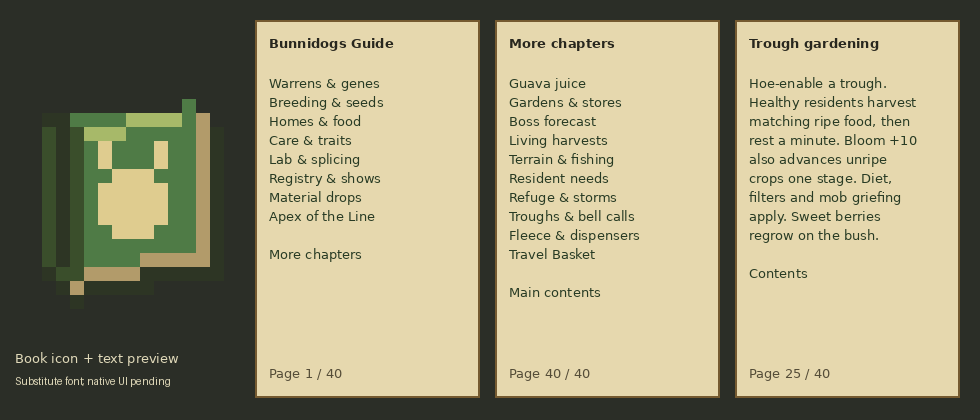
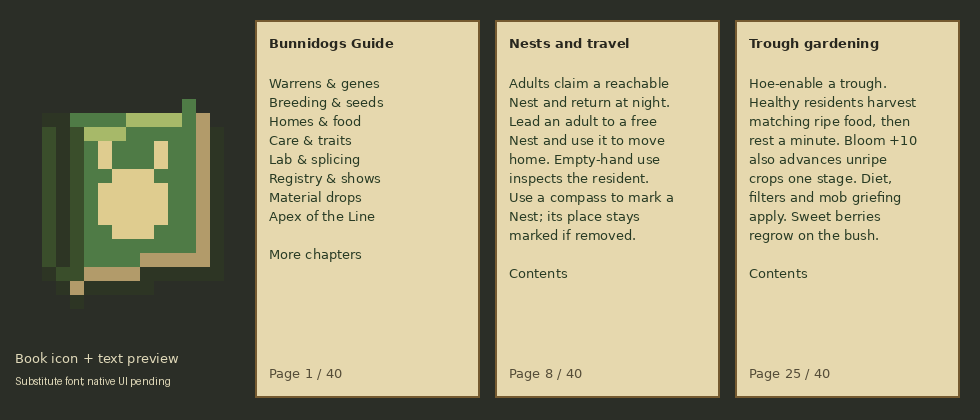
Mark Nest locations with compasses and inspect resident tickets

Changed region(s): [[0.5204, 0.1857, 0.7041, 0.7119], [0.5204, 0.0929, 0.6429, 0.1238], [0.551, 0.8667, 0.6122, 0.8976]]

diff --git a/tools/gametest/java/com/bunnidogs/mod/entity/NestMarkerGameTest.java b/tools/gametest/java/com/bunnidogs/mod/entity/NestMarkerGameTest.java
@@ -1,0 +1,99 @@
+package com.bunnidogs.mod.entity;
+
+import java.util.Optional;
+import com.bunnidogs.mod.genetics.Genome;
+import com.bunnidogs.mod.registry.ModBlocks;
+import com.bunnidogs.mod.registry.ModEntities;
+import com.bunnidogs.mod.registry.ModPoi;
+import net.minecraft.core.BlockPos;
+import net.minecraft.core.Direction;
+import net.minecraft.core.GlobalPos;
+import net.minecraft.core.component.DataComponents;
+import net.minecraft.gametest.framework.GameTestHelper;
+import net.minecraft.network.chat.Component;
+import net.minecraft.server.level.ServerPlayer;
+import net.minecraft.util.ProblemReporter;
+import net.minecraft.world.InteractionHand;
+import net.minecraft.world.entity.EquipmentSlot;
+import net.minecraft.world.entity.ai.village.poi.PoiManager;
+import net.minecraft.world.entity.item.ItemEntity;
+import net.minecraft.world.item.ItemStack;
+import net.minecraft.world.item.Items;
+import net.minecraft.world.item.component.LodestoneTracker;
+import net.minecraft.world.level.GameType;
+import net.minecraft.world.level.block.Blocks;
+import net.minecraft.world.level.storage.TagValueInput;
+import net.minecraft.world.level.storage.TagValueOutput;
+import net.minecraft.world.phys.AABB;
+import net.minecraft.world.phys.BlockHitResult;
+import net.minecraft.world.phys.Vec3;
+
+public final class NestMarkerGameTest {
+    private NestMarkerGameTest() {}
+    private static void use(ServerPlayer player, BlockPos pos, InteractionHand hand) {
+        player.gameMode.useItemOn(player,player.level(),player.getItemInHand(hand),hand,
+                new BlockHitResult(Vec3.atCenterOf(pos),Direction.UP,pos,false));
+    }
+    public static void run(GameTestHelper h) {
+        var level = h.getLevel();
+        for (int x = 0; x < 8; x++) for (int z = 0; z < 8; z++) h.setBlock(x,0,z,Blocks.STONE);
+        h.setBlock(1,1,1,ModBlocks.NEST.get()); h.setBlock(6,1,1,ModBlocks.NEST.get());
+        var first = h.absolutePos(new BlockPos(1,1,1)); var second = h.absolutePos(new BlockPos(6,1,1));
+        var player = h.makeMockServerPlayerInLevel();
+        GameType.SURVIVAL.updatePlayerAbilities(player.getAbilities());
+        var dog = h.spawnWithNoFreeWill(ModEntities.BUNNIDOG.get(),3.5F,1,3.5F);
+        dog.setGenome(Genome.DEFAULT); dog.setAge(0);
+        h.runAfterDelay(2,() -> {
+            var pois = level.getPoiManager();
+            use(player,first,InteractionHand.MAIN_HAND);
+            h.assertTrue(pois.getCountInRange(holder -> holder.is(ModPoi.NEST.getKey()),first,0,PoiManager.Occupancy.HAS_SPACE) == 1,
+                    "Empty Nest inspection must leave its native ticket free");
+            h.assertTrue(dog.moveHomeTo(level,first) == NestHome.MoveResult.MOVED,"The inspected Nest must still accept its first resident");
+            use(player,first,InteractionHand.MAIN_HAND);
+            h.assertTrue(first.equals(dog.homeNest()) && pois.getCountInRange(holder -> holder.is(ModPoi.NEST.getKey()),first,0,PoiManager.Occupancy.IS_OCCUPIED) == 1,
+                    "Occupied inspection must preserve its resident and exact reservation");
+            var compasses = new ItemStack(Items.COMPASS,3);
+            compasses.set(DataComponents.CUSTOM_NAME,Component.literal("Warren route"));
+            player.setItemInHand(InteractionHand.MAIN_HAND,compasses);
+            use(player,first,InteractionHand.MAIN_HAND);
+            var expected = new LodestoneTracker(Optional.of(GlobalPos.of(level.dimension(),first)),false);
+            int markedSlot = -1;
+            for (int slot = 0; slot < player.getInventory().getContainerSize(); slot++)
+                if (expected.equals(player.getInventory().getItem(slot).get(DataComponents.LODESTONE_TRACKER))) markedSlot = slot;
+            h.assertTrue(markedSlot >= 0 && compasses.getCount() == 2 && !compasses.has(DataComponents.LODESTONE_TRACKER)
+                    && player.getInventory().getItem(markedSlot).getCount() == 1,"A survival stack must spend exactly one compass to make one marker");
+            var marked = player.getInventory().removeItem(markedSlot,1);
+            player.setItemInHand(InteractionHand.OFF_HAND,marked);
+            use(player,second,InteractionHand.OFF_HAND);
+            var rebound = new LodestoneTracker(Optional.of(GlobalPos.of(level.dimension(),second)),false);
+            h.assertTrue(rebound.equals(marked.get(DataComponents.LODESTONE_TRACKER)) && marked.getHoverName().getString().equals("Warren route")
+                    && compasses.getCount() == 2,"Rebinding the actual off-hand compass must preserve its name and other hand");
+            var output = TagValueOutput.createWithContext(ProblemReporter.DISCARDING,level.registryAccess());
+            output.store("Compass",ItemStack.CODEC,marked);
+            var restored = TagValueInput.create(ProblemReporter.DISCARDING,level.registryAccess(),output.buildResult()).read("Compass",ItemStack.CODEC).orElseThrow();
+            level.setBlock(second,Blocks.AIR.defaultBlockState(),3);
+            restored.getItem().inventoryTick(restored,level,player,EquipmentSlot.OFFHAND);
+            h.assertTrue(rebound.equals(restored.get(DataComponents.LODESTONE_TRACKER)),"Native saved markers must keep their coordinates when the Nest is removed");
+            var creative = h.makeMockServerPlayerInLevel(); GameType.CREATIVE.updatePlayerAbilities(creative.getAbilities());
+            var single = new ItemStack(Items.COMPASS); creative.setItemInHand(InteractionHand.MAIN_HAND,single);
+            use(creative,first,InteractionHand.MAIN_HAND);
+            h.assertTrue(expected.equals(creative.getMainHandItem().get(DataComponents.LODESTONE_TRACKER))
+                    && creative.getInventory().countItem(Items.COMPASS) == 1,"A single creative compass must bind on the actual held stack without a spare");
+            var denied = h.makeMockServerPlayerInLevel(); GameType.ADVENTURE.updatePlayerAbilities(denied.getAbilities());
+            var unchanged = new ItemStack(Items.COMPASS); denied.setItemInHand(InteractionHand.MAIN_HAND,unchanged);
+            use(denied,first,InteractionHand.MAIN_HAND);
+            h.assertTrue(!unchanged.has(DataComponents.LODESTONE_TRACKER),"Denied build permission must preserve an unbound compass");
+            var full = h.makeMockServerPlayerInLevel(); GameType.SURVIVAL.updatePlayerAbilities(full.getAbilities());
+            full.setPos(Vec3.atBottomCenterOf(h.absolutePos(new BlockPos(3,1,4))));
+            for (int slot = 0; slot < 36; slot++) full.getInventory().setItem(slot,new ItemStack(Items.STONE,64));
+            var extra = new ItemStack(Items.COMPASS,2); full.setItemInHand(InteractionHand.MAIN_HAND,extra);
+            use(full,first,InteractionHand.MAIN_HAND);
+            var drops = level.getEntitiesOfClass(ItemEntity.class,new AABB(full.blockPosition()).inflate(2),
+                    item -> expected.equals(item.getItem().get(DataComponents.LODESTONE_TRACKER)));
+            h.assertTrue(extra.getCount() == 1 && drops.stream().mapToInt(item -> item.getItem().getCount()).sum() == 1,
+                    "A full survival inventory must drop exactly the one marked compass");
+            h.assertTrue(first.equals(dog.homeNest()),"Marking, re-marking and overflow must not move the resident");
+            h.succeed();
+        });
+    }
+}

diff --git a/src/main/java/com/bunnidogs/mod/block/NestBlock.java b/src/main/java/com/bunnidogs/mod/block/NestBlock.java
@@ -1,9 +1,13 @@
 package com.bunnidogs.mod.block;
 
 import java.util.Comparator;
+import java.util.Optional;
 import com.bunnidogs.mod.entity.Bunnidog;
 import com.bunnidogs.mod.entity.NestHome;
+import com.bunnidogs.mod.registry.ModPoi;
 import net.minecraft.core.BlockPos;
+import net.minecraft.core.GlobalPos;
+import net.minecraft.core.component.DataComponents;
 import net.minecraft.network.chat.Component;
 import net.minecraft.server.level.ServerLevel;
 import net.minecraft.sounds.SoundEvents;
@@ -11,15 +15,17 @@ import net.minecraft.sounds.SoundSource;
 import net.minecraft.world.InteractionHand;
 import net.minecraft.world.InteractionResult;
 import net.minecraft.world.entity.player.Player;
+import net.minecraft.world.entity.ai.village.poi.PoiManager;
 import net.minecraft.world.item.ItemStack;
 import net.minecraft.world.item.Items;
+import net.minecraft.world.item.component.LodestoneTracker;
 import net.minecraft.world.level.Level;
 import net.minecraft.world.level.block.Block;
 import net.minecraft.world.level.block.state.BlockState;
 import net.minecraft.world.phys.AABB;
 import net.minecraft.world.phys.BlockHitResult;
 
-/** Keeps the existing Nest block/save identity; adds explicit rehoming of a dog led by the interacting player. */
+/** Native home tickets, led reassignment and persistent compass place markers. */
 public final class NestBlock extends Block {
     private static final double LEAD_RANGE = 8.0;
     public NestBlock(Properties properties) { super(properties); }
@@ -27,6 +33,7 @@ public final class NestBlock extends Block {
     @Override
     protected InteractionResult useItemOn(ItemStack stack, BlockState state, Level level, BlockPos pos,
             Player player, InteractionHand hand, BlockHitResult hit) {
+        if (stack.is(Items.COMPASS)) return mark(level,pos,player,hand,hit);
         return stack.is(Items.LEAD) ? this.rehome(level, pos, player) : super.useItemOn(stack, state, level, pos, player, hand, hit);
     }
     @Override
@@ -34,16 +41,46 @@ public final class NestBlock extends Block {
         return player.getMainHandItem().isEmpty() && player.getOffhandItem().isEmpty()
                 ? this.rehome(level, pos, player) : InteractionResult.PASS;
     }
+    private InteractionResult mark(Level level, BlockPos pos, Player player, InteractionHand hand, BlockHitResult hit) {
+        var actual = player.getItemInHand(hand);
+        if (!player.mayBuild() || !player.mayUseItemAt(pos,hit.getDirection(),actual)) return InteractionResult.PASS;
+        if (level instanceof ServerLevel) {
+            var tracker = new LodestoneTracker(Optional.of(GlobalPos.of(level.dimension(),pos)),false);
+            if (actual.getCount() == 1) actual.set(DataComponents.LODESTONE_TRACKER,tracker);
+            else {
+                var marked = actual.copyWithCount(1);
+                marked.set(DataComponents.LODESTONE_TRACKER,tracker);
+                actual.consume(1,player);
+                if (!player.getInventory().add(marked)) player.drop(marked,false);
+            }
+            level.playSound(null,pos,SoundEvents.LODESTONE_COMPASS_LOCK,SoundSource.PLAYERS,.6F,1);
+            player.sendOverlayMessage(Component.translatable("message.bunnidogs.nest.marked",pos.getX(),pos.getY(),pos.getZ()));
+        }
+        return InteractionResult.SUCCESS;
+    }
+    private InteractionResult inspect(Level level, BlockPos pos, Player player) {
+        if (level instanceof ServerLevel server) {
+            boolean claimed = server.getPoiManager().getCountInRange(holder -> holder.is(ModPoi.NEST.getKey()),pos,0,PoiManager.Occupancy.IS_OCCUPIED) > 0;
+            var resident = claimed ? level.getEntitiesOfClass(Bunnidog.class,new AABB(pos).inflate(24),
+                    dog -> dog.isAlive() && dog.acceptsCare() && pos.equals(dog.homeNest())).stream()
+                    .min(Comparator.comparing(Bunnidog::getUUID)) : Optional.<Bunnidog>empty();
+            player.sendOverlayMessage(!claimed ? Component.translatable("message.bunnidogs.nest.free")
+                    : resident.isEmpty() ? Component.translatable("message.bunnidogs.nest.away")
+                    : Component.translatable("message.bunnidogs.nest.resident",resident.get().getDisplayName(),
+                            resident.get().earTag().orElse("—")));
+        }
+        return InteractionResult.SUCCESS;
+    }
     private InteractionResult rehome(Level level, BlockPos pos, Player player) {
-        if (!player.mayBuild()) return InteractionResult.PASS;
         var dogs = level.getEntitiesOfClass(Bunnidog.class, new AABB(pos).inflate(LEAD_RANGE),
                 dog -> dog.isAlive() && dog.isLeashed() && dog.getLeashHolder() == player && !dog.isPassenger()
                         && dog.distanceToSqr(pos.getX() + .5, pos.getY() + 1, pos.getZ() + .5) <= LEAD_RANGE * LEAD_RANGE);
+        if (dogs.isEmpty()) return inspect(level,pos,player);
+        if (!player.mayBuild()) return InteractionResult.PASS;
         // One click affects exactly one dog, with a stable nearest-first order if several leads are held.
         var candidate = dogs.stream().filter(dog -> !dog.isBaby()).min(Comparator.comparingDouble((Bunnidog dog) ->
                 dog.distanceToSqr(pos.getX() + .5, pos.getY() + 1, pos.getZ() + .5)).thenComparing(Bunnidog::getUUID));
         if (candidate.isEmpty()) {
-            if (dogs.isEmpty()) return InteractionResult.PASS;
             if (!level.isClientSide()) player.sendOverlayMessage(Component.translatable("message.bunnidogs.nest.adult_required"));
             return InteractionResult.SUCCESS;
         }

diff --git a/art/gen_guide.py b/art/gen_guide.py
@@ -11,7 +11,7 @@ PAGES = {
     5: ('Hatch the litter', 'Plant the seed on farmland. Let it ripen, then break the ripe crop to hatch pups. Bone meal speeds growth; Starlit Dust ripens it. Fortune improves quality. Leave room for the litter.'),
     6: ('Guava quality', 'Better guavas improve inherited stat gains. Feed both parents: their qualities are averaged. Golden: 1, Diamond: 2, Netherite: 4, Star: 7, Beacon: 12, Dragon Egg: 20.'),
     7: ('Keep a pedigree', 'Use a Pedigree Book on animals to record them. Ear Tags give permanent codes. Calipers also read a seed or sample held in the other hand. Compare parents before choosing a mate.'),
-    8: ('Nests and travel', 'An adult claims one free reachable Nest. At night it returns home. Leads and rides pause home routines. While leading it, use a free Nest with an empty hand or lead to move its home.'),
+    8: ('Nests and travel', 'Adults claim a reachable Nest and return at night. Lead an adult to a free Nest and use it to move home. Empty-hand use inspects the resident. Use a compass to mark a Nest; its place stays marked if removed.'),
     9: ('Food and troughs', 'Guavas suit every line; other foods follow Diet. New feed stores, markets and pantries hold local food. Fill a trough near home for healing. Sneak-use with both hands empty to withdraw.'),
     10: ('Life at home', 'Healthy adults visit nearby bells at noon. Ring one to call a daytime visit. Keep it within 12 blocks of home, with walking space. Injury, threats, leads, rides and night interrupt.'),
     11: ('Gentle sampling', 'Use a Sampling Syringe on an animal at half health or better. It yields one Tissue Sample without harm; recovery takes five minutes. Sneak-use Calipers for care readiness and timers.'),
@@ -95,7 +95,7 @@ def main():
         bold = ImageFont.truetype('DejaVuSans-Bold.ttf',13)
     except OSError:
         font = bold = ImageFont.load_default()
-    for x,page in [(255,1),(495,40),(735,25)]:
+    for x,page in [(255,1),(495,8),(735,25)]:
         d.rectangle((x,20,x+224,397),fill=(230,216,174),outline=(117,90,48),width=2)
         title = 'Bunnidogs Guide' if page == 1 else 'More chapters' if page == 40 else PAGES[page][0]
         d.text((x+14,35),title,font=bold,fill=(40,39,30))

diff --git a/tools/gametest/java/com/bunnidogs/mod/entity/GuavaGameTest.java b/tools/gametest/java/com/bunnidogs/mod/entity/GuavaGameTest.java
@@ -55,7 +55,7 @@ public final class GuavaGameTest extends GameTestInstance {
     @SubscribeEvent
     public static void registerTests(RegisterGameTestsEvent event) {
         var environment = event.registerEnvironment(id("guava_integration"), new TestEnvironmentDefinition.AllOf());
-        for (String name : new String[]{"boats", "signs", "transport", "rehoming", "wayfinding", "sampling", "adaptations", "fleece", "splicing", "registry", "table_planning", "show", "grooming", "settlement", "apex", "fixtures", "gardening", "pantry", "fishing", "refuge", "storm_shelter", "trough_automation", "bell_calls", "trough_filters", "care_dispensers", "basket", "cultivation"}) {
+        for (String name : new String[]{"boats", "signs", "transport", "rehoming", "wayfinding", "sampling", "adaptations", "fleece", "splicing", "registry", "table_planning", "show", "grooming", "settlement", "apex", "fixtures", "gardening", "pantry", "fishing", "refuge", "storm_shelter", "trough_automation", "bell_calls", "trough_filters", "care_dispensers", "basket", "cultivation", "nest_markers"}) {
             event.registerTest(id(name), new GuavaGameTest(name, new TestData<>(environment, id("empty"), 100, 0, true)));
         }
     }
@@ -78,6 +78,7 @@ public final class GuavaGameTest extends GameTestInstance {
             case "pantry" -> com.bunnidogs.mod.worldgen.PantryGameTest.run(h);
             case "gardening" -> { GardeningGameTest.run(h); return; }
             case "cultivation" -> { CultivationGameTest.run(h); return; }
+            case "nest_markers" -> { NestMarkerGameTest.run(h); return; }
             case "fishing" -> { FishingGameTest.run(h); return; }
             case "refuge" -> { RefugeGameTest.run(h); return; }
             case "storm_shelter" -> { StormShelterGameTest.run(h); return; }

diff --git a/START_HERE.md b/START_HERE.md
@@ -20,6 +20,11 @@ is not exposed in this session: use available work budget without inventing quot
 
 ## Latest gameplay work — 2026-10-17
 
+- **H7, Nest wayfinding:** use a compass to mark a Nest in its dimension.
+  Markers persist if the Nest is removed, preserve components and handle stacks,
+  creative/off-hand use and inventory overflow. Empty-hand inspection reports
+  ticket/resident without changing homes. See `docs/HOME_SPECS.md` H7.
+
 - **L12, bred cultivation:** Bloom +10 adults advance matching unripe crops by
   one stage between ripe harvests. Growth and harvest share existing work rest,
   trough capacity/filters and protected safe routes. Ripe sweet berries now
@@ -83,7 +88,7 @@ lineage food tables and shares the guide pool. See `docs/FIELD_GUIDE.md`.
 | Registry and shows | Distinct stable bred lines, linked snapshots, balanced-stat bronze/silver/gold judging, per-animal awards, ribbons and Champion Line. `docs/REGISTRY_SPECS.md`, `docs/SHOW_SPECS.md` |
 | Care | Live samples, fleece palettes, whiskers/dust, dispenser care, saved recoveries and sneak-Calipers home/food/care/work status. `docs/CARE_SPECS.md` C1–C8 |
 | Adaptations | Expressed fire/cold/fall/Poison/cactus/Levitation benefits, slate armor, heavy-build knockback resistance, self-lit glow and terrain movement. `docs/CARE_SPECS.md` A1–A4 |
-| Homes/travel | Claimable Nests, day tether/night return, floor Nests, native leads/rides, safe led-adult reassignment and identity-preserving Travel Baskets. `docs/HOME_SPECS.md` H1–H6 |
+| Homes/travel | Claimable Nests, day tether/night return, floor Nests, native leads/rides, led-adult reassignment, Travel Baskets and persistent compass place markers. `docs/HOME_SPECS.md` H1–H7 |
 | Settlement life | Saved trough stock/automation/filters, diet healing, scheduled/called bell visits, fitted furniture, harvest/cultivation, local stores, refuge and storm shelter. `docs/SETTLEMENT_LIFE.md` L1–L12 |
 | Warrens | Fitted dens/mouths/tunnels/cellars, landmark rooms, grand-tree hall/loop/lower commons, cave/Nether/End entrances and saved labels. `docs/WARREN_PLAN.md` U1–U8 |
 | Wood and travel | Guava building/redstone set, doors/shutters/lamps, four sign forms, native boats/chest boats with custom assets and drops. `docs/FIXES_PLAN.md` 4–5 |
@@ -138,8 +143,12 @@ Add `checkBunnidogModel` for mesh/renderer/animation changes. GitHub Actions run
 Avoid the large GenomeCheck suite unless substantial pure genetics/layout work
 requires it; do not repeat passing checks without a relevant change or concern.
 
-The current Java 25 build and all **twenty-eight** native scenarios pass
-(twenty-seven mod cases plus native sanity). Latest coverage includes:
+The current Java 25 build and all **twenty-nine** native scenarios pass
+(twenty-eight mod cases plus native sanity). Latest coverage includes:
+
+- **H7:** actual server free/claimed inspection, survival stack conservation,
+  named off-hand rebinding, native compass save/tick after Nest removal,
+  single creative binding, denied permission and full-inventory overflow.
 
 - **L12:** exact Bloom threshold, filter/Diet/griefing refusals, interrupted
   growth, one-stage/no-food cultivation, shared rest, ripe priority, ordinary

diff --git a/docs/API_NOTES.md b/docs/API_NOTES.md
@@ -28,6 +28,7 @@ Status words: **COMPILED** = the user's compile accepted it (names and types are
 ### Lookup table (need -> what works in this project -> status -> exact place)
 | Need | What works | Status | Where it was verified |
 |---|---|---|---|
+| Nest markers H7 | Native LodestoneTracker(Optional<GlobalPos>, false) preserves a fixed place without validating a lodestone POI. CompassItem supplies its needle, foil, bound name and inventory tick. Mutate the actual held stack for one compass; split one copy for larger stacks with native consume/add/drop. Read exact Nest ticket occupancy without taking it; loaded entities supply optional resident names. | Actual build + server interaction/stack/off-hand/codec/tick/creative/denied/overflow case; all 29 pass | NestBlock, NestMarkerGameTest, HOME_SPECS.md |
 | Garden cultivation L12 | CropBlock.getAge/getStateForAge, integer Guava/NetherWart/SweetBerry ages and CaveVines.BERRIES support one-stage changes without running arbitrary bonemeal. Check exact old state, Diet/filter/capacity and native griefing/protection before setBlock; growth emits event 2005 and creates no output. Use full safe native paths for initial selection and replans. Native dispenser output has randomized velocity: catch it inside the fixture before counting. | Actual build and all 28 native scenarios; revised preview | GardenGoal, CultivationGameTest, CareDispenserGameTest |
 | Field Guide P3 | Native ClickEvent.ChangePage takes one-based page numbers. Keep original chapters 2–39; append second contents at 40 and route chapter return links to the relevant index. Item-default WRITTEN_BOOK_CONTENT needs no new payload or component. | Java/resource build + two-index preview; native font/navigation review pending | FieldGuideItem, art/gen_guide.py, FIELD_GUIDE.md |
 | Travel Basket H6 | Native BUCKET_ENTITY_DATA is CustomData; full saveWithoutId(ValueOutput) stores UUID/Genome/Stats and remaining care. CompoundTag read/store accept Codecs; rewrite Entity.TAG_POS before load, then reset movement/fall. ServerLevel.getEntityInAnyDimension guards a present UUID; loaded bounds + noCollision(entity,box,true) guard release before addFreshEntity. Native creative item hooks may pass a copy: mutate the actual held stack. | Build + native identity/item-codec/recovery/Nest/creative/survival/pup/refusal case; all 27 pass | TravelBasketItem, BasketGameTest, NestHome.release |

diff --git a/docs/HOME_SPECS.md b/docs/HOME_SPECS.md
@@ -168,3 +168,28 @@ the exact free POI ticket immediately, then another grounded resident claims
 it before release; a fresh spawn cannot ground-pathfind before physics ticks.
 The item and guide previews are inspected. Client use/tooltip rendering and
 long-distance travel remain gameplay review.
+
+## H7: Nest wayfinding and inspection
+
+Use an ordinary compass on a Nest to mark its position in that dimension.
+The native bound-compass needle points to it there and spins in other dimensions.
+This is a persistent place marker: removing the Nest or changing its resident
+does not erase the destination. Rebinding a compass replaces the previous
+target. Names and other components survive; stacked compasses bind one item,
+with inventory overflow dropping normally. A single creative compass is changed
+in place. Binding consumes no Nest or other resource and respects build/use
+permissions. Native item components carry the marker through saves; no new item,
+recipe, block entity or payload is needed.
+
+Use a Nest with both hands empty and no animal on your lead to inspect its
+ticket. A free Nest says so; a claimed Nest names its loaded nearby resident,
+or explains that the resident is away. Inspection never takes/releases a ticket,
+requests terrain, changes a home or redirects an animal. Existing nearest-led
+adult rehoming and its pup/occupied/unreachable feedback keep priority.
+
+H7 evidence (2026-10-17): actual Java 25 build and all 29 native scenarios pass.
+The marker case uses server game-mode interactions, free/claimed ticket checks,
+stack conservation, named off-hand rebinding, native item save/tick after Nest
+removal, single creative binding, denied permission and full-inventory overflow.
+The guide preview is inspected. Native compass rendering and long-distance
+multidimension travel remain client gameplay review.

diff --git a/docs/FIELD_GUIDE.md b/docs/FIELD_GUIDE.md
@@ -18,6 +18,7 @@ Fleece colors explains expressed palettes, mixed spotted yield and Calipers.
 Trough filters explains exact reservations, withdrawals and clearing while empty.
 Care dispensers explains one-animal pulses, shared recovery and hopper collection.
 Travel Basket explains packing, safe release, retained identity and Nest release.
+The home page also covers read-only Nest inspection and persistent compass marks.
 
 Craft one with a vanilla book and any guava (the existing bunnidog-food tag).
 Obtaining a guava unlocks its recipe. An additional independent 35% pantry loot
@@ -46,9 +47,9 @@ resource-pack fonts may differ. The source preview uses a substitute font.
 
 ## Evidence
 
-The actual Java 25 build and current twenty-eight native server cases pass,
+The actual Java 25 build and current twenty-nine native server cases pass,
 including loading the new book/recipe/loot resources. The expanded 40-page
-two-contents/gardening preview is inspected with a substitute font. Earlier
+contents/home/gardening preview is inspected with a substitute font. Earlier
 pages were shortened using the conservative native text-area estimate.
 Native WrittenBookItem, ServerPlayer, ClientPacketListener and BookViewScreen
 sources establish the ordinary book/packet/click behavior; no new screen or

diff --git a/docs/FEATURES.md b/docs/FEATURES.md
@@ -70,6 +70,12 @@ garden rest and respects Diet, trough filters/capacity and block protection.
 It creates no food until a later harvest. Ordinary foragers can gather one
 sweet berry from a ripe bush, leaving it to regrow. Calipers names the bonus.
 
+**Nest wayfinding (H7):** use a compass on a Nest to mark that place. Its needle
+points there in that dimension and spins elsewhere; the marker remains if the
+Nest is removed. Names/components survive and stacked compasses bind one item.
+Empty-hand use with no led animal inspects the free/claimed Nest and any nearby
+resident. Led-adult reassignment keeps priority. Inspection changes no tickets.
+
 **Bell calls (L10):** ring a vanilla bell to call healthy adult residents by day,
 including outside noon. Hand use, redstone and projectiles work. Keep it within
 12 blocks of their Nest and leave safe walking space. Calls use the same short

diff --git a/docs/ROADMAP.md b/docs/ROADMAP.md
@@ -16,6 +16,11 @@ and mouths, **H3b** house floor Nests. V1a, V1b, H3 and H4 WORK.
 
 ## Latest implemented work (gameplay pending)
 
+H7 adds ordinary-compass Nest marking and read-only ticket/resident inspection.
+Bound places persist through Nest removal; names/components, stacked/off-hand
+use, creative and inventory overflow follow native item behavior. See
+`HOME_SPECS.md`.
+
 L12 gives Bloom +10 adults one-stage cultivation between ripe harvests, sharing
 the existing garden rest and respecting Diet, trough filters and protection.
 Foragers also harvest ripe sweet berries without removing the bush. Native

diff --git a/README.md b/README.md
@@ -19,6 +19,7 @@ Dispensers use Brushes/Sampling Syringes with the same animal recovery as hand u
 Travel Baskets move individual animals while preserving identity and care state.
 Bloom +10 residents cultivate matching unripe crops beside enabled troughs;
 ordinary foragers also gather sweet berries while keeping the bush.
+Use a compass on a Nest to mark the place, or inspect it empty-handed.
 
 ## Build and play
 
